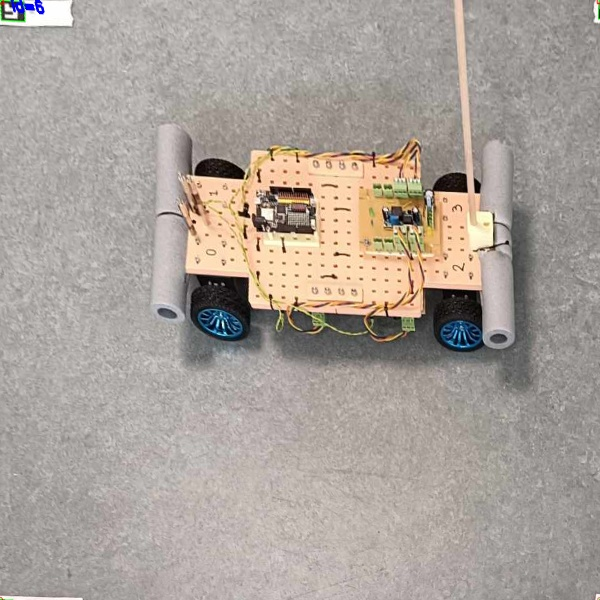
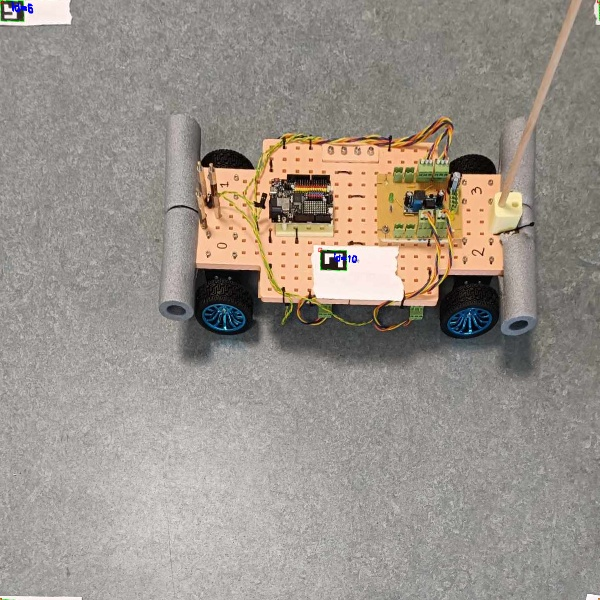
Image now display precise position of marker

diff --git a/Python/vision/visiontest_aruco.py b/Python/vision/visiontest_aruco.py
@@ -2,7 +2,7 @@ import cv2
 import numpy as np
 
 # Load the image
-image = cv2.imread('aruco_car_30.jpg')
+image = cv2.imread('aruco_20_10.jpg')
 
 # Convert the image to grayscale
 gray = cv2.cvtColor(image, cv2.COLOR_BGR2GRAY)
@@ -18,52 +18,49 @@ corners, ids, rejected = detector.detectMarkers(gray)
 if ids is not None:
     print("Detected markers:", ids)
 
-    # Let's assume you want to work with the first four marker corners.
+    # Separate the desired markers and other markers
     selected_corners = []
     selected_ids = []
-    # Define the desired order of marker IDs
-    desired_ids = [6, 7, 8, 11]
-    
+    other_corners = []
+    other_ids = []
+    corner_ids = [6, 7, 8, 9]  # Define the corner marker IDs
+
     for i in range(len(ids)):
-        if ids[i] in desired_ids:  # Check if the detected ID is in the desired order
+        if ids[i] in corner_ids:  # Check if the detected ID is in the desired list
             selected_corners.append(corners[i][0])  # Append corners to the list
             selected_ids.append(ids[i])  # Append ID to the list
-    
-    
-    # Draw the detected markers
+        else:
+            other_corners.append(corners[i][0])  # Append other corners
+            other_ids.append(ids[i])  # Append other IDs
+
+    # Draw all detected markers on the original image
     cv2.aruco.drawDetectedMarkers(image, corners, ids)
     cv2.imwrite('image_with_marker_information.jpg', image)
 
-    print("Detected markers:", selected_ids)
-    print("Detected corners:", selected_corners)
+    print("Selected markers:", selected_ids)
+    print("Other markers:", other_ids)
 
-    # If we have exactly four selected markers (adjust based on your needs)
+    # If we have exactly four selected markers
     if len(selected_corners) == 4:
         # Flatten the list of corners (four lists of 4 points)
-        points = np.array([corner[0] for corner in selected_corners], dtype=np.float32)
-        print("Points:", points)   
+        points = np.array([corner for corner in selected_corners], dtype=np.float32)
 
-        # Sort the points based on their x-coordinates
-        sorted_points = points[np.argsort(points[:, 0])]
+        # Sort the points to ensure correct order: top-left, top-right, bottom-right, bottom-left
+        sorted_points = points[np.argsort(points[:, 0, 0])]  # Sort by x-coordinate
+        left_points = sorted_points[:2]  # Two leftmost points
+        right_points = sorted_points[2:]  # Two rightmost points
 
-        # Determine the top-left and bottom-left points (smallest x-coordinates)
-        left_points = sorted_points[:2]
-        # Determine the top-right and bottom-right points (largest x-coordinates)
-        right_points = sorted_points[2:]
-
-        # Sort the left points based on their y-coordinates to get top-left and bottom-left
-        left_points = left_points[np.argsort(left_points[:, 1])]
+        # Sort left and right points by y-coordinate to get top and bottom
+        left_points = left_points[np.argsort(left_points[:, 0, 1])]
+        right_points = right_points[np.argsort(right_points[:, 0, 1])]
         top_left, bottom_left = left_points
-
-        # Sort the right points based on their y-coordinates to get top-right and bottom-right
-        right_points = right_points[np.argsort(right_points[:, 1])]
         top_right, bottom_right = right_points
 
-        # Arrange the points in the correct order: top-left, top-right, bottom-right, bottom-left
-        ordered_points = np.array([top_left, top_right, bottom_right, bottom_left], dtype=np.float32)
+        # Arrange the points in the correct order
+        ordered_points = np.array([top_left[0], top_right[0], bottom_right[0], bottom_left[0]], dtype=np.float32)
 
-        # Define the destination points in the output image (this is where you'll map the corners)
-        width, height = 600, 600  # Define the output image size
+        # Define the destination points in the output image
+        width, height = 400, 400  # Define the output image size
         dst_points = np.array([[0, 0], [width-1, 0], [width-1, height-1], [0, height-1]], dtype=np.float32)
 
         # Get the perspective transform matrix
@@ -72,10 +69,27 @@ if ids is not None:
         # Apply the perspective transformation
         warped_image = cv2.warpPerspective(image, matrix, (width, height))
 
-        # Show the warped image
-        cv2.imwrite('Warped_image.jpg', warped_image)
         
+
+        # Calculate real-world distances
+        real_world_distance = 0.25  # Define the real-world distance (e.g., 1 meter)
+        for i in range(len(other_ids)):
+            marker_point = other_corners[i][0].reshape(1, 1, -1)  # Get the first corner of the marker
+            print(marker_point)
+            transformed_center = cv2.perspectiveTransform(marker_point, matrix)[0][0]
+            # Calculate distances in the real-world coordinate system
+            distance_x = (transformed_center[1] / height) * real_world_distance
+            distance_y = (transformed_center[0] / width) * real_world_distance
+            print(f"Marker ID {other_ids[i]} location: ({distance_x} meters, {distance_y} meters)")
+
+            # Write the marker ID and location on the warped image
+            text = f"ID {other_ids[i]}: ({distance_x:.2f}m, {distance_y:.2f}m)"
+            cv2.putText(warped_image, text, (int(transformed_center[0]), int(transformed_center[1])), 
+                        cv2.FONT_HERSHEY_SIMPLEX, 0.5, (0, 255, 0), 2, cv2.LINE_AA)
+            
+        # Save and display the warped image with other marker locations
+        cv2.imwrite('warped_image_with_other_markers.jpg', warped_image)    
     else:
-        print("Not enough markers detected.")
+        print("Not enough selected markers detected.")
 else:
     print("No markers detected.")
